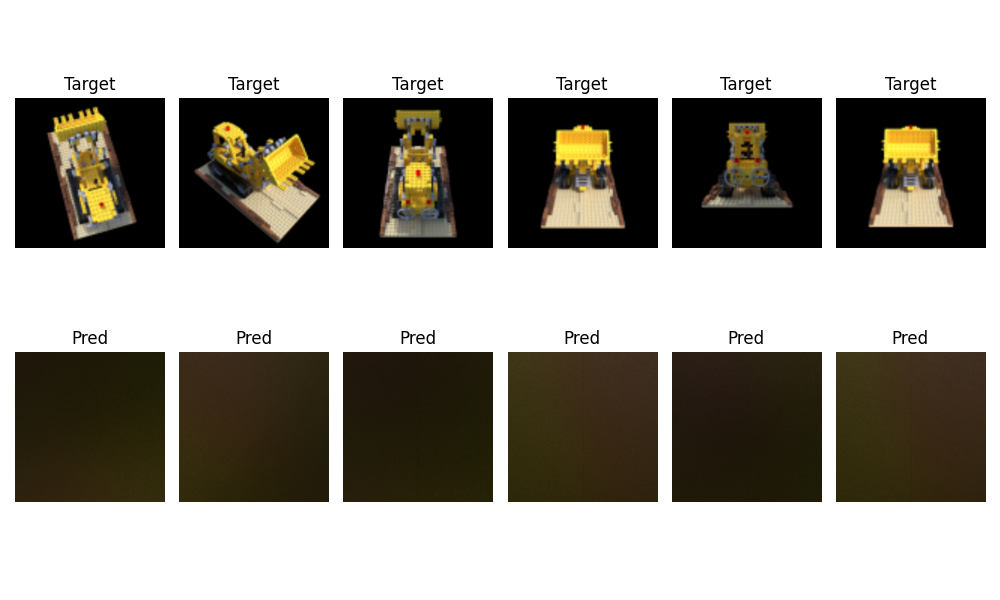
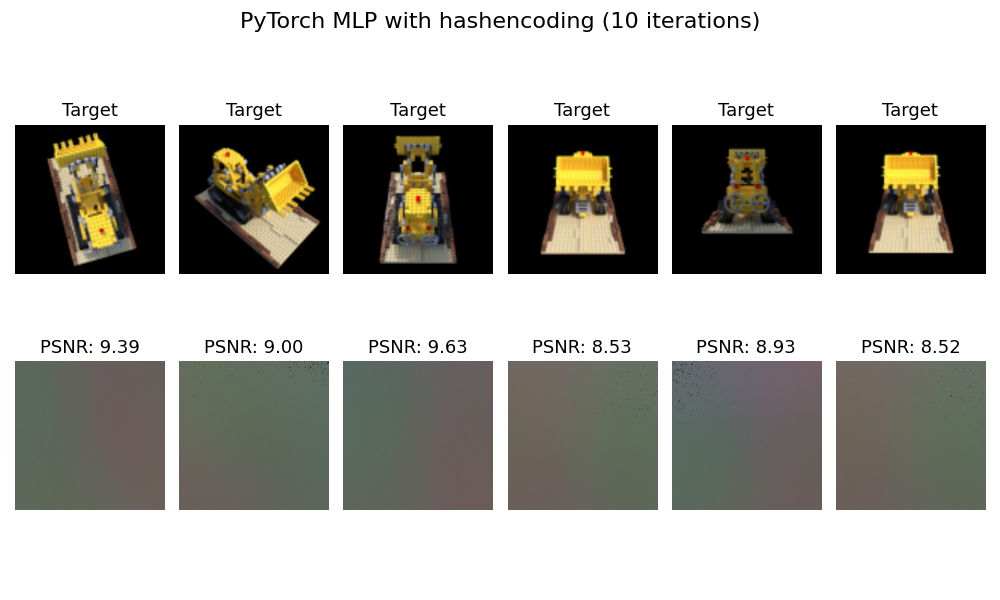
hash encoding for torch mlp

diff --git a/trainers/torchhash_trainer.py b/trainers/torchhash_trainer.py
@@ -18,23 +18,26 @@ class TorchHashTrainer:
         self.device = 'cuda'
         self.model = MLP(self.C, self.C, self.C).to(self.device)
         self.dataset = DataLoader()
+        self.bounding_box = self.dataset.get_bbx()
         self.feature_field = FeatureField(features_per_level = 32).cuda()
         self.loss_fn = torch.nn.MSELoss()
         
     def train(self, iters, lr = 5e-3): #5e-3
-        optimizer = torch.optim.Adam([ {'params': self.model.parameters()}, 
-                                      {'params': self.feature_field.hashtable}], lr=lr)
+        self.iters = iters
+        optimizer = torch.optim.Adam([ {'params': self.model.parameters()},
+                                      {'params': self.feature_field.parameters()},], lr=lr)
         start = time.time()
         for i in range(iters):
             img_i = np.random.randint(100)
-            #img_i = 0
             #get train_data
             x, dists, target_image, viewdirs = self.dataset.get_data(img_i)
             #hashencoding
-            x = self.feature_field.encode(x)
+            x = self.normalize_coordinates(x)
+            embedded_x = self.feature_field.encode(x)
+            #embedded_x = pos_embed(x)[...,:-1]
             viewdirs = (pos_embed(viewdirs)[...,:16]).unsqueeze(2).expand(-1, -1, self.N_samples, -1)
             #MLP and volume rendering
-            y_pred = self.model(x, viewdirs)
+            y_pred = self.model(embedded_x, viewdirs)
             y_pred = volume_rendering(y_pred, dists)
             #Compute loss and psnr
             loss = self.loss_fn(y_pred, target_image)
@@ -52,12 +55,13 @@ class TorchHashTrainer:
         target_images = []
         start = time.time()
         test_images = [100,101,102,103,104,105]
-        #test_images = [0,0,0,0,0,0]
+        psnrs = []
         for img_i in test_images:
             x, dists, target_image, viewdirs = self.dataset.get_data(img_i)
-            x = self.feature_field.encode(x)
+            x = self.normalize_coordinates(x)
+            embedded_x = self.feature_field.encode(x)
             viewdirs = (pos_embed(viewdirs)[...,:16]).unsqueeze(2).expand(-1, -1, self.N_samples, -1)
-            y_pred = self.model(x, viewdirs)
+            y_pred = self.model(embedded_x, viewdirs)
             y_pred = volume_rendering(y_pred, dists)
             loss = self.loss_fn(y_pred, target_image)
             psnr = -10. * torch.log(loss) / torch.math.log(10.)
@@ -65,7 +69,19 @@ class TorchHashTrainer:
             if(saveimg):
                 intermediate_images.append(y_pred.detach().cpu().numpy())
                 target_images.append(target_image.detach().cpu().numpy())
+                psnrs.append(psnr.detach().cpu())
         end = time.time()
         print('avg rendering time:', (end - start)/len(test_images))
         if(saveimg):
-            save_images(target_images, intermediate_images,'torchhash.png')
+            save_images(target_images, intermediate_images,'torchhash.png', "PyTorch MLP with hashencoding" , self.iters, psnrs)
+            
+    def normalize_coordinates(self,x):
+        min_xyz = torch.tensor(self.bounding_box[0], dtype=x.dtype, device=x.device)
+        max_xyz = torch.tensor(self.bounding_box[1], dtype=x.dtype, device=x.device)
+        range_xyz = max_xyz - min_xyz
+        x_shape = x.shape
+        x = x.reshape(-1,3)
+        range_xyz[range_xyz == 0] = 1.0
+        x = (x - min_xyz)/range_xyz
+        x = x.reshape(x_shape)
+        return x

diff --git a/utils/data_loader.py b/utils/data_loader.py
@@ -18,6 +18,7 @@ class DataLoader():
         poses = torch.tensor(data['poses'], dtype=torch.float32, device=self.device)
         focal = torch.tensor(data['focal'], dtype=torch.float32, device=self.device).clone().detach()
         self.preprocess_data(images, poses, focal)
+        self.bbx = self.get_bbx()
         
     def preprocess_data(self, images, poses, focal):
         num_images = images.shape[0]
@@ -47,7 +48,14 @@ class DataLoader():
             viewdirs =  directions / torch.norm(directions, p=2, dim=-1, keepdim=True)
             self.viewrDirections[i] = viewdirs
         self.target_images = torch.from_numpy(self.target_images).cuda()
-
+        
+    def get_bbx(self):
+        pts = self.samplePoints.reshape(-1,3)
+        x_min, y_min, z_min = pts.min(dim=0)[0]
+        x_max, y_max, z_max = pts.max(dim=0)[0]
+        return (torch.tensor([x_min, y_min, z_min])-torch.tensor([0.1,0.1,0.0001]), 
+                torch.tensor([x_max, y_max, z_max])+torch.tensor([0.1,0.1,0.0001]))
+    
     def get_rays(self, H, W, focal, c2w):
         i, j = torch.meshgrid(torch.arange(W, dtype=torch.float32, device=self.device),
                             torch.arange(H, dtype=torch.float32, device=self.device), indexing='xy')

diff --git a/trainers/slanghash_trainer.py b/trainers/slanghash_trainer.py
@@ -34,6 +34,7 @@ class SlangHashTrainer:
         return [w1, w2, w3, b1, b2, b3]
     
     def train(self, iters, lr=5e-3):
+        self.iters = iters
         optimizer = torch.optim.Adam(self.params, lr=lr) 
         start = time.time()
         for i in range(iters):
@@ -58,6 +59,7 @@ class SlangHashTrainer:
     def render(self,saveimg):
         intermediate_images = []
         target_images = []
+        psnrs = []
         start = time.time()
         test_images = [100,101,102,103,104,105] #test cases
         for img_i in  test_images :
@@ -74,7 +76,8 @@ class SlangHashTrainer:
             if(saveimg):      
                 intermediate_images.append(y_pred.detach().cpu().numpy())
                 target_images.append(target_image.detach().cpu().numpy())
+                psnrs.append(psnr.detach().cpu())
         end = time.time()
         print('avg rendering time:', (end - start)/len(test_images))
         if(saveimg):
-            save_images(target_images, intermediate_images,'slang.png')
+            save_images(target_images, intermediate_images,'slang.png', "Slang MLP with hashencoding" , self.iters, psnrs)

diff --git a/trainers/torch_trainer.py b/trainers/torch_trainer.py
@@ -20,6 +20,7 @@ class TorchTrainer:
         self.loss_fn = torch.nn.MSELoss()
         
     def train(self, iters, lr = 5e-3):
+        self.iters = iters
         optimizer = torch.optim.Adam(self.model.parameters(), lr=lr) 
         start = time.time()
         for i in range(iters):
@@ -41,6 +42,7 @@ class TorchTrainer:
     def render(self, saveimg):
         intermediate_images = []
         target_images = []
+        psnrs = []
         start = time.time()
         test_images = [100,101,102,103,104,105]
         for img_i in test_images:
@@ -55,7 +57,8 @@ class TorchTrainer:
             if(saveimg):
                 intermediate_images.append(y_pred.detach().cpu().numpy())
                 target_images.append(target_image.detach().cpu().numpy())
+                psnrs.append(psnr.detach().cpu())
         end = time.time()
         print('avg rendering time:', (end - start)/len(test_images))
         if(saveimg):
-            save_images(target_images, intermediate_images,'torch.png')
+            save_images(target_images, intermediate_images,'torch.png', "PyTorch MLP" , self.iters,psnrs)

diff --git a/trainers/slang_trainer.py b/trainers/slang_trainer.py
@@ -33,6 +33,7 @@ class SlangTrainer:
         return [w1, w2, w3, b1, b2, b3]
     
     def train(self, iters, lr=5e-3):
+        self.iters = iters
         optimizer = torch.optim.Adam(self.params, lr=lr) 
         start = time.time()
         for i in range(iters):
@@ -58,6 +59,7 @@ class SlangTrainer:
     def render(self,saveimg):
         intermediate_images = []
         target_images = []
+        psnrs = []
         start = time.time()
         test_images = [100,101,102,103,104,105] #test cases
         for img_i in  test_images :
@@ -73,7 +75,8 @@ class SlangTrainer:
             if(saveimg):      
                 intermediate_images.append(y_pred.detach().cpu().numpy())
                 target_images.append(target_image.detach().cpu().numpy())
+                psnrs.append(psnr.detach().cpu())
         end = time.time()
         print('avg rendering time:', (end - start)/len(test_images))
         if(saveimg):
-            save_images(target_images, intermediate_images,'slang.png')
+            save_images(target_images, intermediate_images,'slang.png', "Slang MLP" , self.iters, psnrs)

diff --git a/utils/save_image.py b/utils/save_image.py
@@ -1,14 +1,17 @@
 import matplotlib.pyplot as plt
-def save_images(target_images, intermediate_images, name):
+def save_images(target_images, intermediate_images, result_name, model_name, iterations, psnrs):
     fig, axs = plt.subplots(2, 6, figsize=(10, 6))
     for ax, img in zip(axs[0], target_images):
         ax.imshow(img)
-        ax.set_title('Target')
+        ax.set_title('Target', fontsize=13)
         ax.axis('off')
-    for ax, img in zip(axs[1], intermediate_images):
+        
+    for ax, img, psnr in zip(axs[1], intermediate_images, psnrs):
         ax.imshow(img)
-        ax.set_title('Pred')
+        ax.set_title(f'PSNR: {psnr:.2f}', fontsize=13)
         ax.axis('off')
+        
+    plt.suptitle(f'{model_name} ({iterations} iterations)', fontsize=16)
     plt.tight_layout() 
     plt.plot()
-    plt.savefig('results/'+ name)
+    plt.savefig('results/'+ result_name)

diff --git a/utils/hashencoder/feature_field.py b/utils/hashencoder/feature_field.py
@@ -67,7 +67,7 @@ class FeatureField(nn.Module): #hashmap_scale=.0001, res=1024
         c_00 = c_000 * (1-p_d[:, 0][:, None]) + c_100 * p_d[:, 0][:, None]
         c_01 = c_001 * (1-p_d[:, 0][:, None]) + c_101 * p_d[:, 0][:, None]
         c_10 = c_010 * (1-p_d[:, 0][:, None]) + c_110 * p_d[:, 0][:, None]
-        c_11 = c_010 * (1-p_d[:, 0][:, None]) + c_111 * p_d[:, 0][:, None]
+        c_11 = c_011 * (1-p_d[:, 0][:, None]) + c_111 * p_d[:, 0][:, None] # c_11 = c_010 * (1-p_d[:, 0][:, None]) + c_111 * p_d[:, 0][:, None]
 
         #interpolate along y
         c_0 = c_00 * (1-p_d[:, 1][:, None]) + c_10 * p_d[:, 1][:, None]

diff --git a/run.py b/run.py
@@ -19,7 +19,7 @@ def main(trainer_type):
         model = TorchHashTrainer()
     else:
         raise ValueError("Invalid trainer type. Please provide 'slang' or 'torch'.")
-    model.train(iters=50)
+    model.train(iters=10)
     model.render(saveimg=True)
 
 if __name__ == '__main__':
